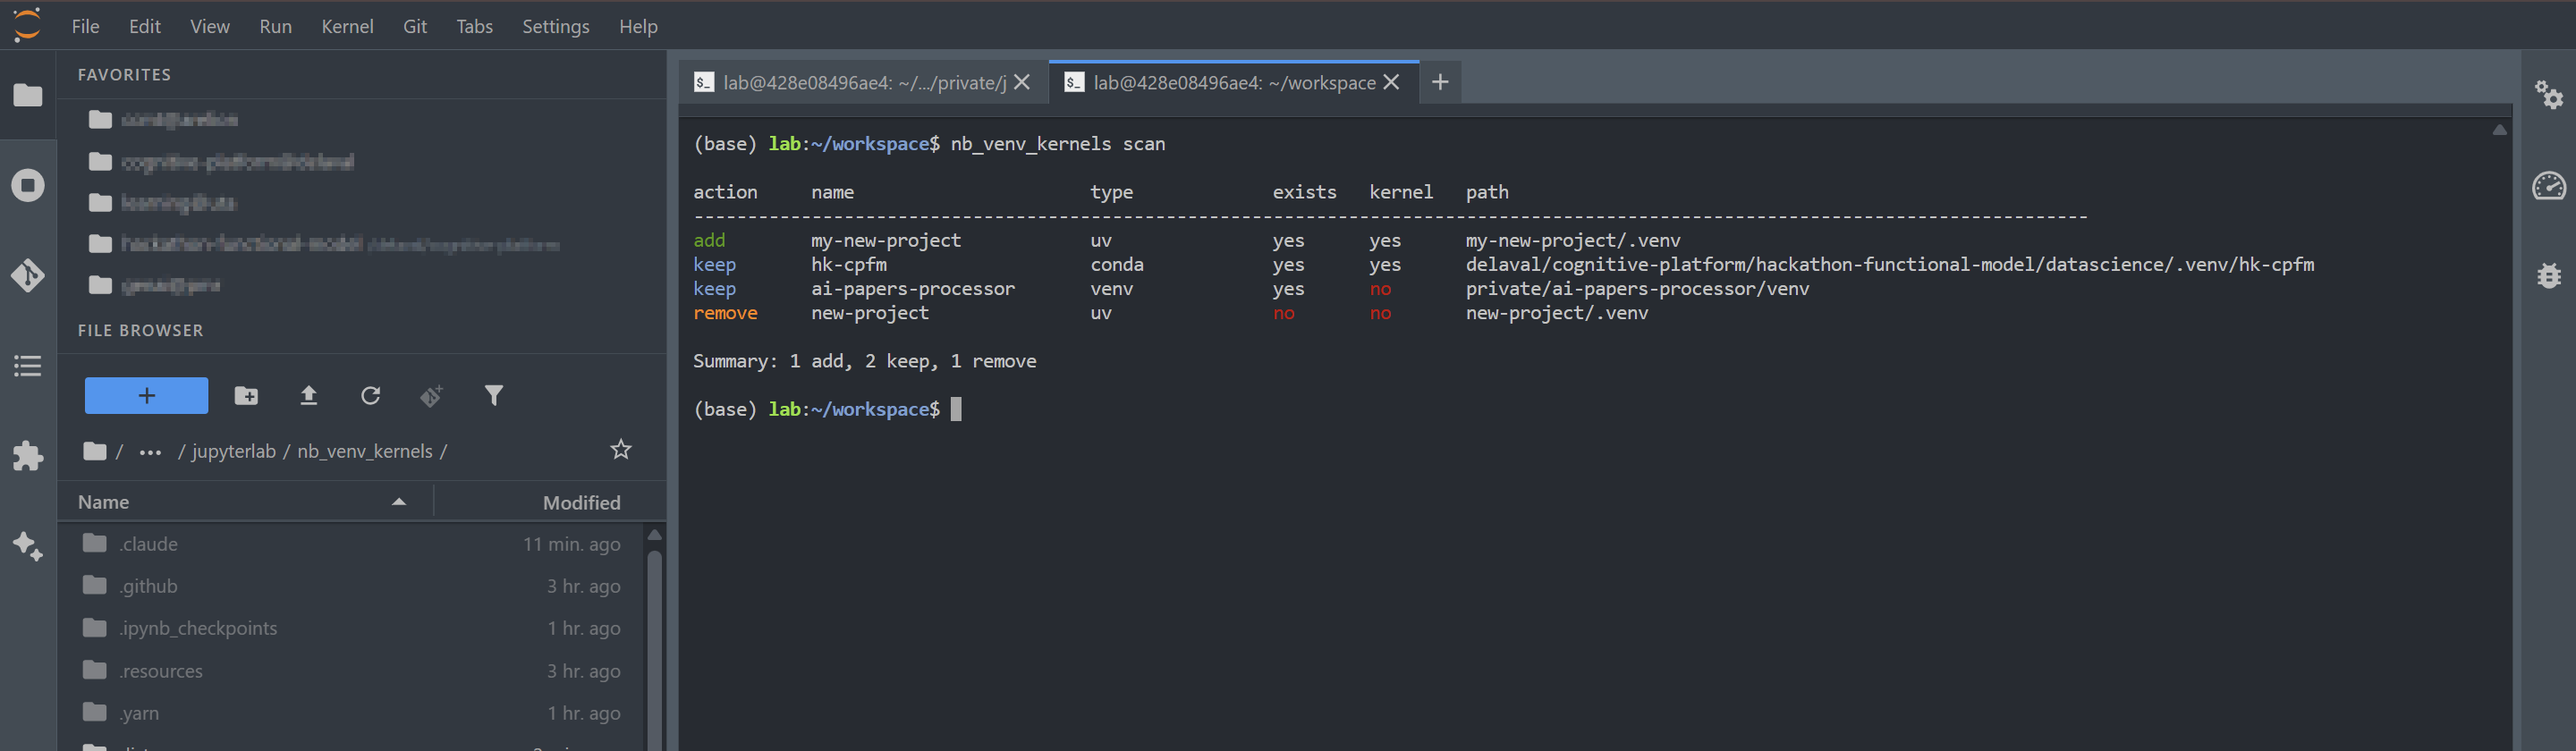
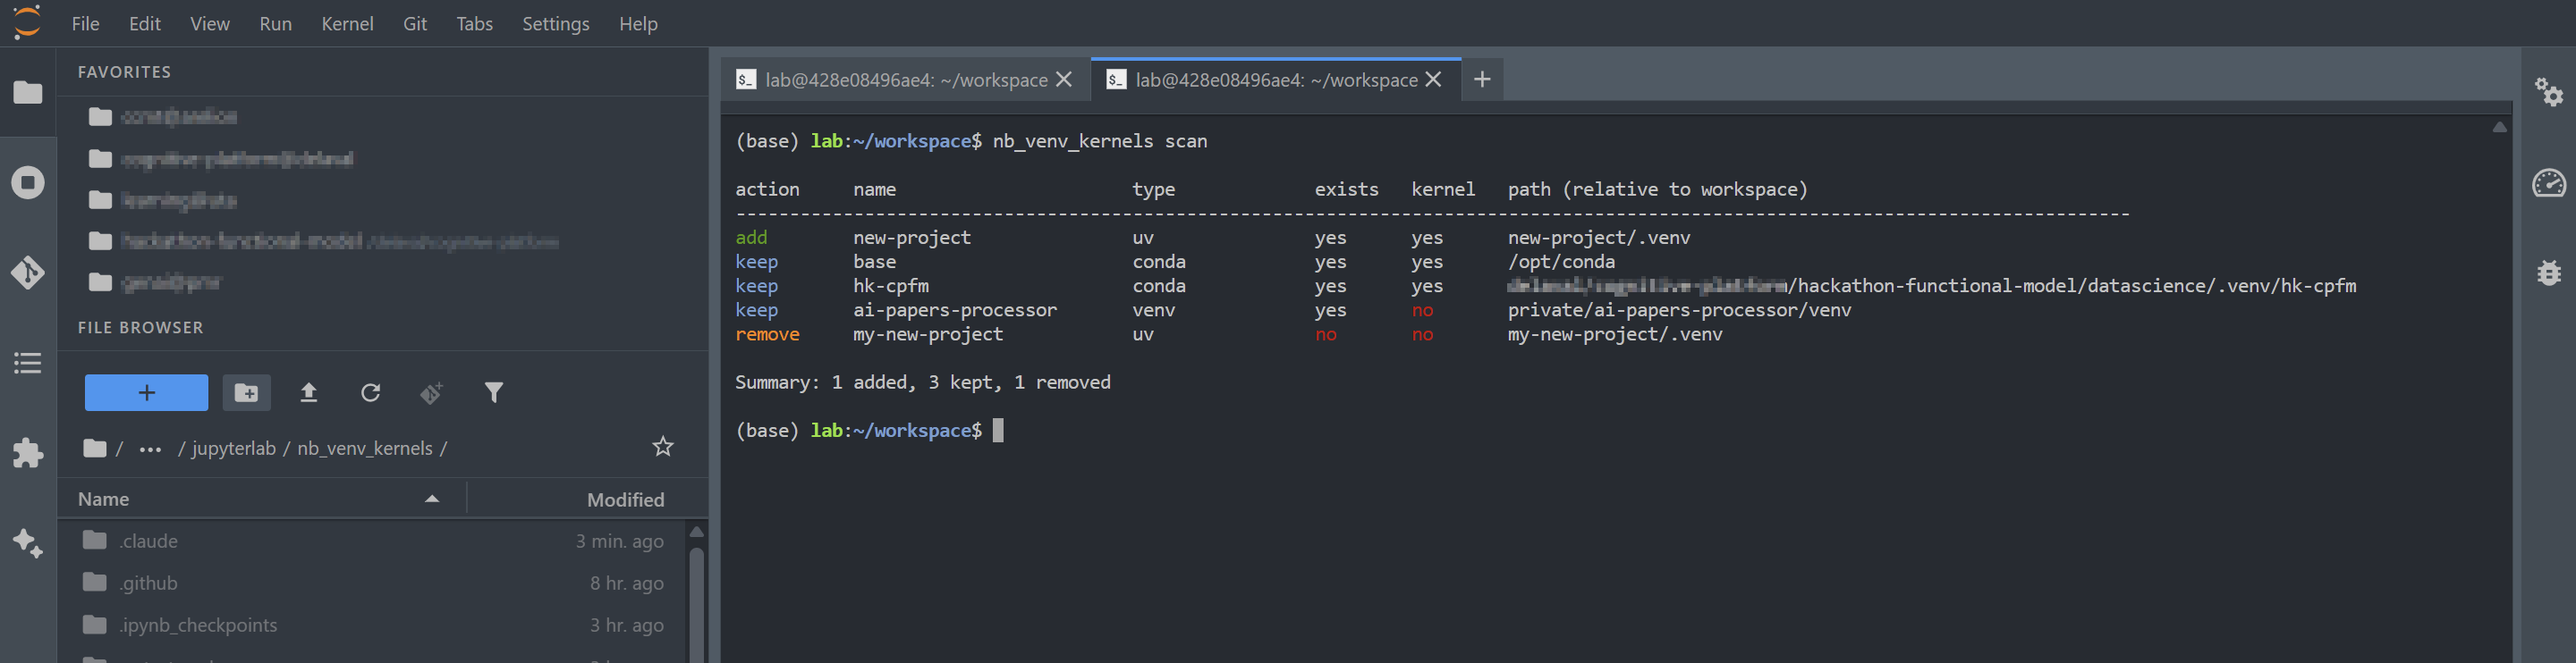
feat: workspace-relative paths and scan boundary validation
- Display paths relative to server workspace in CLI and frontend
- Block scans outside workspace with error message
- Add helper functions: get_workspace_root, path_relative_to_workspace, is_path_within_workspace
- Fix tilde expansion for server_root_dir setting
- Bump version to 1.1.26

diff --git a/src/index.ts b/src/index.ts
@@ -26,6 +26,7 @@ interface IScanResult {
     remove: number;
   };
   dry_run: boolean;
+  workspace_root: string;
 }
 
 /**
@@ -154,7 +155,7 @@ function buildResultsContent(result: IScanResult): string {
           <th style="text-align: left; padding: 4px 8px;">type</th>
           <th style="text-align: left; padding: 4px 8px;">exists</th>
           <th style="text-align: left; padding: 4px 8px;">kernel</th>
-          <th style="text-align: left; padding: 4px 8px;">path</th>
+          <th style="text-align: left; padding: 4px 8px;">path (relative to workspace)</th>
         </tr>
       </thead>
       <tbody>

diff --git a/nb_venv_kernels/cli.py b/nb_venv_kernels/cli.py
@@ -7,7 +7,12 @@ import sys
 import threading
 import time
 
-from .manager import VEnvKernelSpecManager
+from .manager import (
+    VEnvKernelSpecManager,
+    get_workspace_root,
+    is_path_within_workspace,
+    path_relative_to_workspace,
+)
 
 
 class Colors:
@@ -122,22 +127,19 @@ def _get_env_type_display(env_path: str, env_type: str) -> str:
     return env_type
 
 
-def _relative_path(path: str, base: str = None) -> str:
-    """Convert absolute path to relative path for display."""
-    from pathlib import Path
-    if base is None:
-        base = Path.cwd()
-    else:
-        base = Path(base)
-    try:
-        return str(Path(path).relative_to(base.resolve()))
-    except ValueError:
-        # Path is not relative to base, use os.path.relpath as fallback
-        try:
-            return os.path.relpath(path, str(base))
-        except ValueError:
-            # On Windows, relpath fails for paths on different drives
-            return path
+def _relative_path(path: str, workspace: str = None) -> str:
+    """Convert absolute path to path relative to workspace.
+
+    Args:
+        path: Path to convert
+        workspace: Workspace root (auto-detected if None)
+
+    Returns:
+        Relative path string
+    """
+    if workspace is None:
+        workspace = get_workspace_root()
+    return path_relative_to_workspace(path, workspace)
 
 
 def find_jupyter_config_dir():
@@ -486,8 +488,10 @@ def main():
 
         envs.sort(key=sort_key)
 
+        workspace = get_workspace_root()
+
         if getattr(args, 'json', False):
-            # JSON output
+            # JSON output with workspace-relative paths
             output = []
             for env in envs:
                 output.append({
@@ -495,31 +499,38 @@ def main():
                     "type": _get_env_type_display(env['path'], env.get("type", "venv")),
                     "exists": env["exists"],
                     "has_kernel": env["has_kernel"],
-                    "path": env["path"],
+                    "path": _relative_path(env["path"], workspace),
                 })
-            print(json.dumps(output, indent=2))
+            print(json.dumps({"environments": output, "workspace_root": workspace}, indent=2))
         elif not envs:
             print("No environments found.")
             print("Use 'nb_venv_kernels register <path>' or 'nb_venv_kernels scan' to add environments.")
         else:
             print()
-            print(f"{'name':<25} {'type':<16} {'exists':<8} {'kernel':<8} {'path'}")
+            print(f"{'name':<25} {'type':<16} {'exists':<8} {'kernel':<8} {'path (relative to workspace)'}")
             print("-" * 110)
             for env in envs:
                 name = _get_env_display_name(env['path'], env.get("type", "venv"))
                 env_type = _get_env_type_display(env['path'], env.get("type", "venv"))
                 exists = "yes" if env["exists"] else Colors.red("no") + " " * 6
                 kernel = "yes" if env["has_kernel"] else Colors.red("no") + " " * 6
-                # Use relative path except for conda global
+                # Use workspace-relative path except for conda global
                 if env.get("type") == "conda" and _is_conda_global(env['path']):
                     display_path = env['path']
                 else:
-                    display_path = _relative_path(env['path'])
+                    display_path = _relative_path(env['path'], workspace)
                 print(f"{name:<25} {env_type:<16} {exists:<8} {kernel:<8} {display_path}")
         print()
 
     elif args.command == "scan":
+        workspace = get_workspace_root()
         scan_path = os.path.abspath(args.path)
+
+        # Validate scan path is within workspace
+        if not is_path_within_workspace(scan_path, workspace):
+            print(f"Error: Scan path must be within workspace: {workspace}", file=sys.stderr)
+            sys.exit(1)
+
         # Use configured depth if not specified via CLI
         depth = args.depth if args.depth is not None else manager.scan_depth
         dry_run = getattr(args, 'no_update', False)
@@ -571,28 +582,31 @@ def main():
         total_remove = result["summary"]["remove"]
 
         if json_output:
-            # Output result directly - manager already builds the right structure
+            # Output with workspace-relative paths
+            for env in environments:
+                env["path"] = _relative_path(env["path"], workspace)
             output = {
                 "environments": environments,
                 "summary": result["summary"],
                 "dry_run": dry_run,
+                "workspace_root": workspace,
             }
             print(json.dumps(output, indent=2))
         else:
             if environments:
                 print()
-                print(f"{'action':<10} {'name':<25} {'type':<16} {'exists':<8} {'kernel':<8} {'path'}")
+                print(f"{'action':<10} {'name':<25} {'type':<16} {'exists':<8} {'kernel':<8} {'path (relative to workspace)'}")
                 print("-" * 130)
                 for env in environments:
                     # Pad action before colorizing to maintain alignment
                     action_colored = colorize_action(env["action"]) + " " * (10 - len(env["action"]))
                     exists_str = "yes" if env["exists"] else Colors.red("no") + " " * 6
                     kernel_str = "yes" if env["has_kernel"] else Colors.red("no") + " " * 6
-                    # Use relative path except for conda global
+                    # Use workspace-relative path except for conda global
                     if env["type"] == "conda" and _is_conda_global(env["path"]):
                         display_path = env["path"]
                     else:
-                        display_path = _relative_path(env["path"])
+                        display_path = _relative_path(env["path"], workspace)
                     print(f"{action_colored} {env['name']:<25} {env['type']:<16} {exists_str:<8} {kernel_str:<8} {display_path}")
                 print()
 

diff --git a/nb_venv_kernels/manager.py b/nb_venv_kernels/manager.py
@@ -38,6 +38,84 @@ CACHE_TIMEOUT = 60
 RUNNER_COMMAND = ["python", "-m", "nb_venv_kernels.runner"]
 
 
+def get_workspace_root():
+    """Get the workspace/server root directory.
+
+    Reads from Jupyter server config or environment variables:
+    1. JUPYTER_SERVER_ROOT environment variable
+    2. ServerApp.root_dir from jupyter_server_config
+    3. JUPYTERHUB_ROOT_DIR environment variable
+    4. Falls back to current working directory
+    """
+    # Check environment variable first
+    for var in ['JUPYTER_SERVER_ROOT', 'JUPYTERHUB_ROOT_DIR']:
+        root = os.environ.get(var)
+        if root and os.path.isdir(root):
+            return os.path.abspath(root)
+
+    # Try to read from Jupyter server config
+    try:
+        from jupyter_core.paths import jupyter_config_dir
+        import json as json_module
+
+        config_dir = jupyter_config_dir()
+        config_file = os.path.join(config_dir, "jupyter_server_config.json")
+        if os.path.exists(config_file):
+            with open(config_file, "r") as f:
+                config = json_module.load(f)
+            root_dir = config.get("ServerApp", {}).get("root_dir")
+            if root_dir and os.path.isdir(root_dir):
+                return os.path.abspath(root_dir)
+    except Exception:
+        pass
+
+    return os.getcwd()
+
+
+def path_relative_to_workspace(path: str, workspace: str = None) -> str:
+    """Convert absolute path to path relative to workspace.
+
+    Args:
+        path: Absolute path to convert
+        workspace: Workspace root (auto-detected if None)
+
+    Returns:
+        Relative path string, or absolute path if outside workspace
+    """
+    if workspace is None:
+        workspace = get_workspace_root()
+
+    try:
+        abs_path = os.path.abspath(path)
+        abs_workspace = os.path.abspath(workspace)
+        if abs_path.startswith(abs_workspace + os.sep) or abs_path == abs_workspace:
+            return os.path.relpath(abs_path, abs_workspace)
+    except ValueError:
+        pass
+    return path
+
+
+def is_path_within_workspace(path: str, workspace: str = None) -> bool:
+    """Check if path is within the workspace.
+
+    Args:
+        path: Path to check
+        workspace: Workspace root (auto-detected if None)
+
+    Returns:
+        True if path is within workspace
+    """
+    if workspace is None:
+        workspace = get_workspace_root()
+
+    try:
+        abs_path = os.path.abspath(path)
+        abs_workspace = os.path.abspath(workspace)
+        return abs_path.startswith(abs_workspace + os.sep) or abs_path == abs_workspace
+    except ValueError:
+        return False
+
+
 class VEnvKernelSpecManager(KernelSpecManager):
     """A KernelSpecManager that discovers kernels from registered venv environments.
 

diff --git a/nb_venv_kernels/routes.py b/nb_venv_kernels/routes.py
@@ -5,7 +5,12 @@ from jupyter_server.base.handlers import APIHandler
 from jupyter_server.utils import url_path_join
 import tornado
 
-from .manager import VEnvKernelSpecManager
+from .manager import (
+    VEnvKernelSpecManager,
+    get_workspace_root,
+    is_path_within_workspace,
+    path_relative_to_workspace,
+)
 
 
 class ListEnvironmentsHandler(APIHandler):
@@ -15,7 +20,18 @@ class ListEnvironmentsHandler(APIHandler):
     def get(self):
         manager = VEnvKernelSpecManager()
         envs = manager.list_environments()
-        self.finish(json.dumps(envs))
+        # Use server's root_dir setting, fall back to get_workspace_root()
+        workspace = self.settings.get("server_root_dir") or get_workspace_root()
+        workspace = os.path.expanduser(workspace)  # Expand ~ if present
+
+        # Convert paths to relative
+        for env in envs:
+            env["path"] = path_relative_to_workspace(env["path"], workspace)
+
+        self.finish(json.dumps({
+            "environments": envs,
+            "workspace_root": workspace,
+        }))
 
 
 class ScanEnvironmentsHandler(APIHandler):
@@ -24,12 +40,29 @@ class ScanEnvironmentsHandler(APIHandler):
     @tornado.web.authenticated
     def post(self):
         data = self.get_json_body() or {}
-        path = data.get("path", os.getcwd())
+        # Use server's root_dir setting, fall back to get_workspace_root()
+        workspace = self.settings.get("server_root_dir") or get_workspace_root()
+        workspace = os.path.expanduser(workspace)  # Expand ~ if present
+        path = os.path.expanduser(data.get("path", workspace))
         depth = data.get("depth")
         dry_run = data.get("dry_run", False)
 
+        # Validate path is within workspace
+        if not is_path_within_workspace(path, workspace):
+            self.set_status(400)
+            self.finish(json.dumps({
+                "error": f"Scan path must be within workspace: {workspace}"
+            }))
+            return
+
         manager = VEnvKernelSpecManager()
         result = manager.scan_environments(path=path, max_depth=depth, dry_run=dry_run)
+
+        # Convert paths to relative
+        for env in result.get("environments", []):
+            env["path"] = path_relative_to_workspace(env["path"], workspace)
+
+        result["workspace_root"] = workspace
         self.finish(json.dumps(result))
 
 

diff --git a/.claude/JOURNAL.md b/.claude/JOURNAL.md
@@ -114,3 +114,6 @@ This journal tracks substantive work on documents, diagrams, and documentation c
 
 37. **Task - CLI uses REST API**: Attempted refactoring CLI to use REST API instead of direct VEnvKernelSpecManager calls. Added JupyterAPIClient class with server discovery via runtime files<br>
     **Result**: Reverted due to JupyterHub authentication issues - runtime file tokens are for Jupyter server but JupyterHub proxy requires separate auth. CLI remains using VEnvKernelSpecManager directly
+
+38. **Task - Workspace-relative paths**: Updated path display in CLI and frontend to show paths relative to server workspace. Added workspace boundary validation to prevent scans outside workspace. Added helper functions get_workspace_root(), path_relative_to_workspace(), is_path_within_workspace() in manager.py. Routes use server's root_dir setting. Column headers now show "path (relative to workspace)". Fixed tilde expansion bug in routes.py (server_root_dir returns ~/workspace which needs os.path.expanduser)<br>
+    **Result**: All paths displayed relative to workspace root. Scans outside workspace blocked. Web API working after tilde expansion fix
